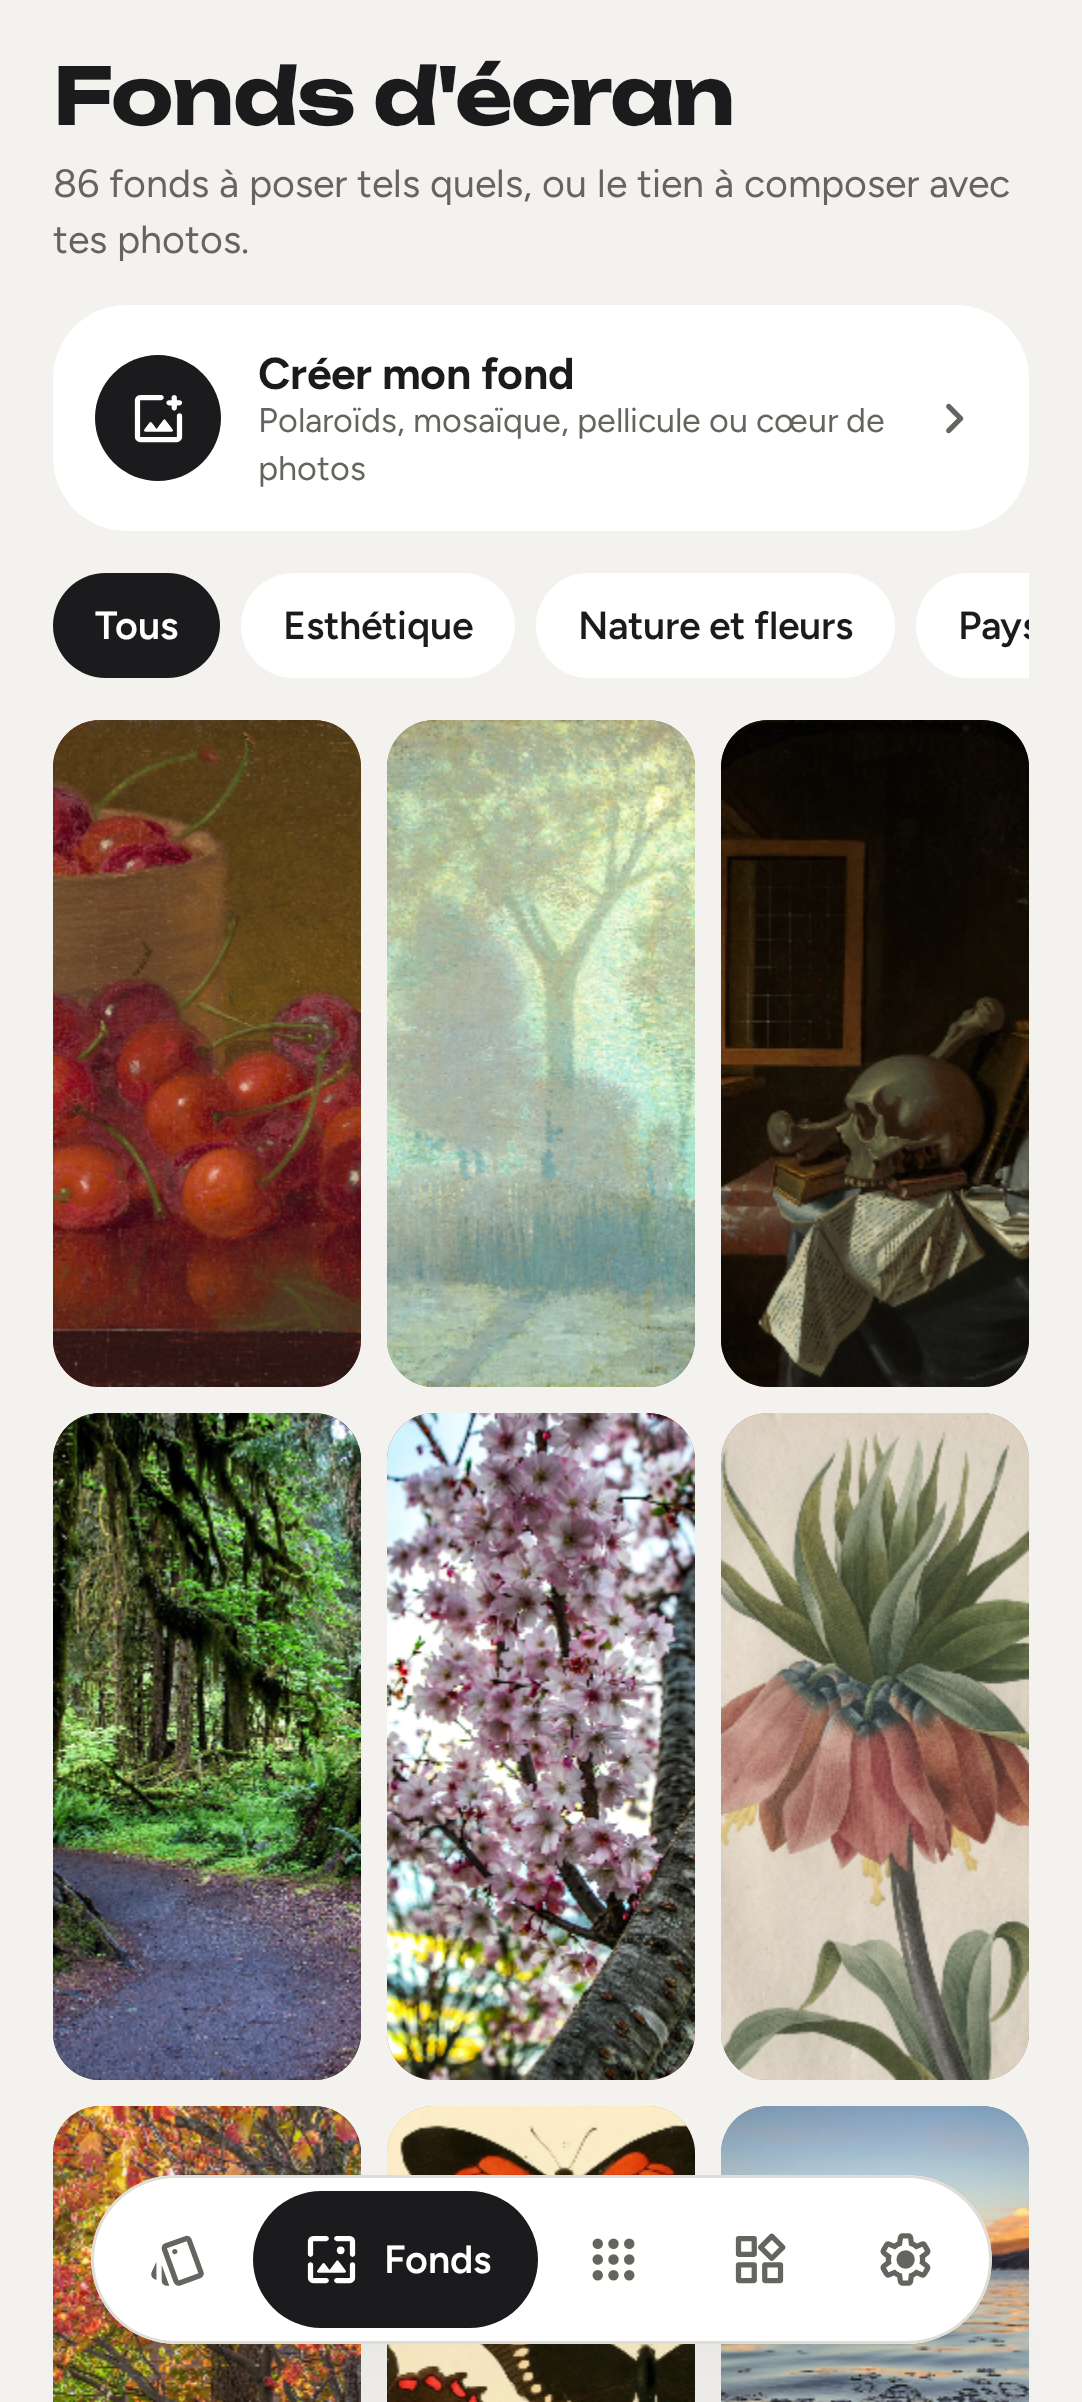
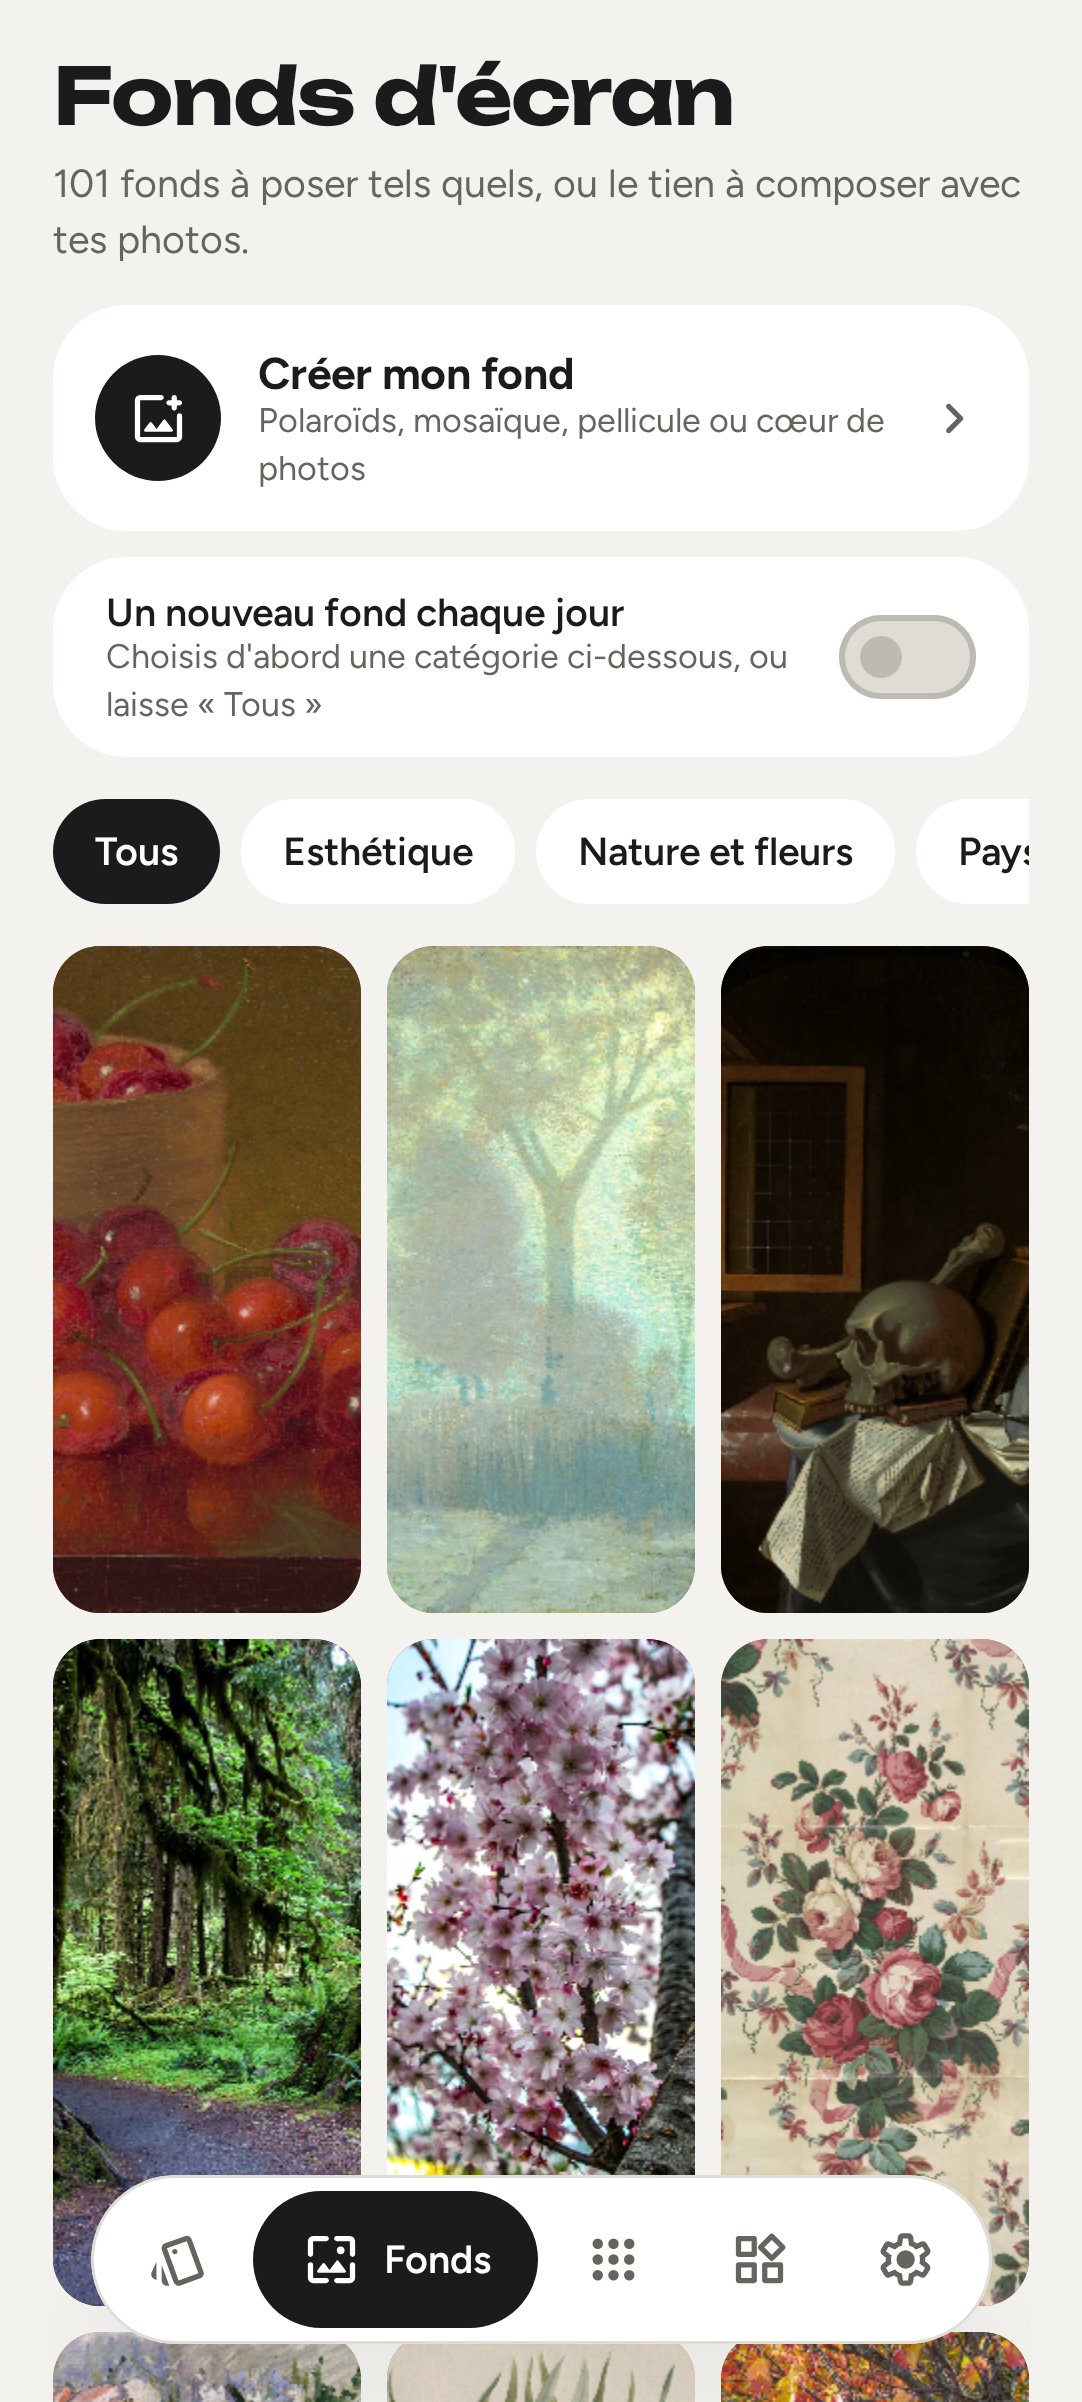
Pimpr 1.3 : 76 thèmes, douze types de widgets, packs illustrés, fond du jour
Claude-Session: https://claude.ai/code/session_01VpGqBjNhLLakBhTdpHG6gd

diff --git a/app/src/main/java/com/pimpr/app/data/catalog/ImageThemeData.kt b/app/src/main/java/com/pimpr/app/data/catalog/ImageThemeData.kt
@@ -123,7 +123,7 @@ internal val ImageThemeRows: List<ImageThemeRow> = listOf(
     ImageThemeRow(
         "fraises", "Fraises", "Fraises des bois et feuilles dentelées", ThemeCategory.NATURE,
         "nouveauté fraises fruit rouge vert botanique été gourmand cottagecore",
-        dark = false, lockLight = false,
+        dark = false, lockLight = true,
         card = 0xC6382F, onCard = 0xFAF0F0, card2 = 0xF6EAEA, onCard2 = 0x621D18, accent = 0x4F7A35,
         tiles = listOf(0xC6382F, 0xD67069, 0xA22E27, 0xF6EAEA),
         font = "pacifico", quoteFont = "caveat", recipe = 3,

diff --git a/tools/themes_spec.py b/tools/themes_spec.py
@@ -53,7 +53,7 @@ THEMES = [
     t("fraises", "Fraises", "Fraises des bois et feuilles dentelées", "NATURE",
       "nouveauté fraises fruit rouge vert botanique été gourmand cottagecore", "pacifico",
       "Un été dans une barquette.", quoteFont="caveat", ornament="favorite", recipe=3,
-      dark=False, lockLight=False, main=0xC8372D, accent=0x4F7A35),
+      dark=False, lockLight=True, main=0xC8372D, accent=0x4F7A35),
     t("coquelicots", "Coquelicots", "Les prés fleuris des impressionnistes", "NATURE",
       "nouveauté coquelicots champ fleurs impressionnisme monet rouge vert été prairie", "marcellus",
       "Va où les fleurs poussent.", quoteFont="playfair", ornament="local_florist", recipe=2),
@@ -158,7 +158,8 @@ THEMES = [
       "Niveau 1-1.", quoteFont="silkscreen", recipe=2, pixel=True, corner=0.12, tile="ROUNDED"),
     t("tarot", "Cartes de cour", "Rois et reines peints d'un jeu du XVe siècle", "GAMING",
       "nouveauté cartes jeu roi reine or médiéval vintage mystique noir", "marcellus",
-      "Tire une carte.", quoteFont="playfair", ornament="auto_awesome", recipe=4, corner=0.2, tile="ROUNDED"),
+      "Tire une carte.", quoteFont="playfair", ornament="auto_awesome", recipe=4, corner=0.2, tile="ROUNDED",
+      wfocus={"w1": (0.5, 0.12), "w2": (0.5, 0.12), "w3": (0.5, 0.12), "w4": (0.5, 0.12)}),
 
     # ------------------------------------------------------------ Cosmos
     t("nebuleuse", "Nébuleuse", "Nuages d'étoiles vus par les télescopes de la NASA", "COSMOS",

diff --git a/README.md b/README.md
@@ -18,12 +18,13 @@ Quelques thèmes, écran de verrouillage puis écran d'accueil :
 
 ## Ce que fait l'app
 
-**Bibliothèque de thèmes.** 61 thèmes rangés en douze catégories : Esthétique, Nature et
+**Bibliothèque de thèmes.** 76 thèmes rangés en douze catégories : Esthétique, Nature et
 fleurs, Paysages, Animaux, Mignon, Anime et Japon, Gaming, Cosmos, Art, Pastel, Minimal,
-Néon et rétro. 36 d'entre eux reposent sur des images du domaine public (tableaux,
+Néon et rétro. 51 d'entre eux reposent sur des images du domaine public (tableaux,
 estampes, photos de la NASA et des parcs nationaux, pixel art) ; les 25 autres sont
 dessinés par le code. Chaque thème réunit un fond de verrouillage, un fond d'accueil
-assorti, un pack d'icônes et, pour les thèmes à images, vingt-six widgets déjà réglés.
+assorti, un pack d'icônes et, pour les thèmes à images, une trentaine de widgets déjà réglés. Un thème différent est mis
+à la une chaque jour, et les derniers arrivés ont leur rangée « Nouveautés ».
 
 **Recherche.** Un champ en haut de la bibliothèque cherche dans les noms, les catégories
 et les mots-clés (« japon », « pixel nuit », « rose »…), sans tenir compte des accents.
@@ -152,7 +153,7 @@ Kotlin et Jetpack Compose, un seul module `app`.
 - **Fond du jour.** Le changement est vérifié toutes les six heures : le nouveau fond
   arrive dans la matinée plutôt qu'à minuit pile.
 - **Météo.** Une ville se choisit par recherche ; l'app n'utilise pas la localisation.
-- **Poids.** Les images des thèmes portent l'APK à environ 38 Mo.
+- **Poids.** Les images des thèmes portent l'APK à environ 50 Mo.
 - **Langue.** L'interface est en français uniquement.
 - **Signature.** Les builds sont signés avec la clé de test du dossier `keystore/`,
   publique par nature : elle sert à installer et mettre à jour des builds de test, pas à
